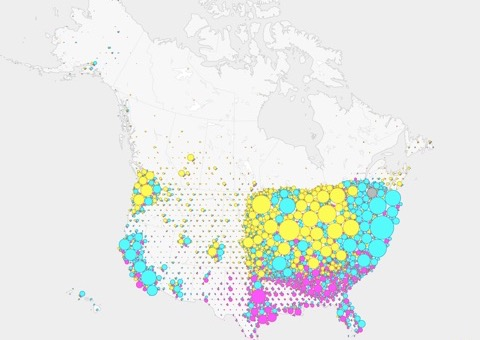
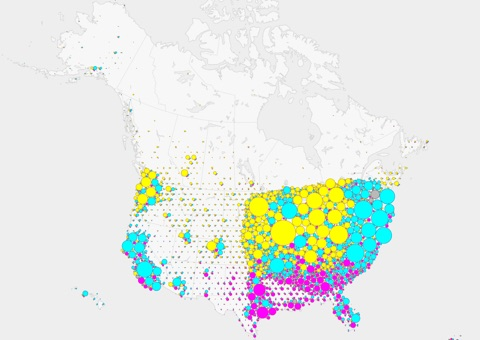
Pure colors for donuts and bubbles; isogloss lakes masked properly
The donuts, bubbles, hex bubbles and hover box dots use the pure colors
of the main map's mix (#ffff00, #00ffff, #ff00ff, and gray for other)
instead of the paler isogloss 90% zone colors (common.js: TERM_FILL).

The isogloss bands are now masked to land minus lakes. The old even-odd
clip filled the other country's half of the Great Lakes when only one
country was shown, since its land stops mid-lake.

Claude-Session: https://claude.ai/code/session_01JpWq1jKXNV9syim92nfxii

diff --git a/experiments/common.js b/experiments/common.js
@@ -32,10 +32,11 @@ window.PVS = (function () {
 	// marks stay visible on white. "Other" is a deliberately neutral gray,
 	// matching the main map, where "other" darkens a county towards black.
 	const COLOR = { pop: "#c49a00", soda: "#0a8fbf", coke: "#d13a8a", other: "#555555" };
-	// Fills for the four answers: the 90% zones on the isogloss map (its CMY
-	// fills after three stacked 30% bands over the land, and a gray for
-	// "other"). Shapes filled with these are outlined in COLOR.
-	const ZONE_FILL = { pop: "#fbfb54", soda: "#54fbfb", coke: "#fb54fb", other: "#b9b9b9" };
+	// Fills for the four answers on the donuts and bubbles: the pure colors of
+	// the main map's mix (what the choropleth and Voronoi show where everyone
+	// gave one answer), and a gray for "other". Shapes filled with these are
+	// outlined in COLOR.
+	const TERM_FILL = { pop: "#ffff00", soda: "#00ffff", coke: "#ff00ff", other: "#b9b9b9" };
 
 	const STATE_ABBR = {
 		"01": "AL", "02": "AK", "04": "AZ", "05": "AR", "06": "CA", "08": "CO", "09": "CT",
@@ -138,7 +139,7 @@ window.PVS = (function () {
 	function breakdownHTML(title, counts, total, highlight) {
 		const rows = TERMS.map((t) =>
 			`<tr${t === highlight ? ' class="hl"' : ""}>` +
-			`<td><span class="dot" style="background:${ZONE_FILL[t]};box-shadow:inset 0 0 0 1px ${COLOR[t]}"></span>${LABEL[t]}</td>` +
+			`<td><span class="dot" style="background:${TERM_FILL[t]};box-shadow:inset 0 0 0 1px ${COLOR[t]}"></span>${LABEL[t]}</td>` +
 			`<td class="num">${fmt(counts[t])}</td>` +
 			`<td class="num">${total ? pct(counts[t] / total) : "–"}</td></tr>`
 		).join("");
@@ -600,13 +601,13 @@ window.PVS = (function () {
 	// Color key: one swatch + name per term.
 	function colorKeyHTML(shape) {
 		return TERMS.map((t) =>
-			`<span class="key-item"><span class="${shape}" style="background:${ZONE_FILL[t]};` +
+			`<span class="key-item"><span class="${shape}" style="background:${TERM_FILL[t]};` +
 			`box-shadow:inset 0 0 0 1px ${COLOR[t]}"></span>${LABEL[t]}</span>`
 		).join("");
 	}
 
 	return {
-		TERMS, LABEL, COLOR, ZONE_FILL, STATE_ABBR, BASEMAP, drawBasemap, fmt, pct, loadData, countyRecords, breakdownHTML, makeTooltip, colorKeyHTML,
+		TERMS, LABEL, COLOR, TERM_FILL, STATE_ABBR, BASEMAP, drawBasemap, fmt, pct, loadData, countyRecords, breakdownHTML, makeTooltip, colorKeyHTML,
 		northAmericaProjection, FRAME, usProjection, canadaProjection, regionProjection, regionZones, pageRegion, reloadWithSettings, mix, mixCounts, mixKeyHTML, showMixKey, swellingOutlines, separateStates,
 	};
 })();

diff --git a/experiments/isoglosses.js b/experiments/isoglosses.js
@@ -232,10 +232,13 @@
 
 		// --- static layers ---------------------------------------------------
 		const defs = svg.append("defs");
-		defs.append("clipPath").attr("id", "land-clip")
-			.append("path")
-			.attr("clip-rule", "evenodd") // land minus lakes
-			.attr("d", path(land) + path(lakes));
+		// Bands, dots and lines show only on the land shown, minus lakes. A mask
+		// rather than an even-odd clip: with one country shown its land stops
+		// mid-lake, and an even-odd clip would fill the other country's half.
+		const landMask = defs.append("mask").attr("id", "land-mask")
+			.attr("maskUnits", "userSpaceOnUse").attr("x", 0).attr("y", 0).attr("width", WIDTH).attr("height", HEIGHT);
+		landMask.append("path").attr("fill", "#fff").attr("d", path(land));
+		landMask.append("path").attr("fill", "#000").attr("d", path(lakes));
 
 		// Sub-grid spacing is DOT_GAP * sqrt(3), in horizontal rows; the three
 		// sub-grids are shifted 0, 1 and 2 * DOT_GAP straight down.
@@ -268,9 +271,9 @@
 		defs.append("clipPath").attr("id", "shown-land").append("path").attr("d", path(land));
 		base.append("path").attr("class", "lakes").attr("clip-path", "url(#shown-land)").attr("d", path(lakes));
 
-		const bands = svg.append("g").attr("clip-path", "url(#land-clip)");
-		const dots = svg.append("g").attr("clip-path", "url(#land-clip)");
-		const lines = svg.append("g").attr("clip-path", "url(#land-clip)");
+		const bands = svg.append("g").attr("mask", "url(#land-mask)");
+		const dots = svg.append("g").attr("mask", "url(#land-mask)");
+		const lines = svg.append("g").attr("mask", "url(#land-mask)");
 		// State / province lines again on top, faintly, so they read through the bands.
 		svg.append("path").attr("class", "admin-over").attr("d", path(admin1));
 

diff --git a/experiments/choropleth.html b/experiments/choropleth.html
@@ -4,8 +4,8 @@
 	<meta charset="utf-8">
 	<meta name="viewport" content="width=device-width, initial-scale=1">
 	<title>Pop vs Soda Choropleth</title>
-	<link href="../css/style.css?v=2026-11-23p" rel="stylesheet">
-	<link href="experiments.css?v=2026-11-23p" rel="stylesheet">
+	<link href="../css/style.css?v=2026-11-23v" rel="stylesheet">
+	<link href="experiments.css?v=2026-11-23v" rel="stylesheet">
 	<style>
 		.na-units path { stroke: #fff; stroke-width: 0.15px; }
 		.na-lines path { fill: none; pointer-events: none; }
@@ -16,8 +16,8 @@
 	</style>
 	<script src="../vendor/d3.v7.9.0.min.js" defer></script>
 	<script src="../vendor/topojson-client.v3.1.0.min.js" defer></script>
-	<script src="common.js?v=2026-11-23p" defer></script>
-	<script src="choropleth.js?v=2026-11-23p" defer></script>
+	<script src="common.js?v=2026-11-23v" defer></script>
+	<script src="choropleth.js?v=2026-11-23v" defer></script>
 </head>
 <body>
 	<nav class="nav">

diff --git a/experiments/isoglosses.html b/experiments/isoglosses.html
@@ -4,8 +4,8 @@
 	<meta charset="utf-8">
 	<meta name="viewport" content="width=device-width, initial-scale=1">
 	<title>Pop vs Soda Isoglosses</title>
-	<link href="../css/style.css?v=2026-11-23p" rel="stylesheet">
-	<link href="experiments.css?v=2026-11-23p" rel="stylesheet">
+	<link href="../css/style.css?v=2026-11-23v" rel="stylesheet">
+	<link href="experiments.css?v=2026-11-23v" rel="stylesheet">
 	<style>
 		.iso-band { mix-blend-mode: multiply; }
 		.iso-line { fill: none; stroke-linejoin: round; }
@@ -16,8 +16,8 @@
 	</style>
 	<script src="../vendor/d3.v7.9.0.min.js" defer></script>
 	<script src="../vendor/topojson-client.v3.1.0.min.js" defer></script>
-	<script src="common.js?v=2026-11-23p" defer></script>
-	<script src="isoglosses.js?v=2026-11-23q" defer></script>
+	<script src="common.js?v=2026-11-23v" defer></script>
+	<script src="isoglosses.js?v=2026-11-23w" defer></script>
 </head>
 <body>
 	<nav class="nav">

diff --git a/experiments/donuts.js b/experiments/donuts.js
@@ -7,7 +7,7 @@
 (function () {
 	"use strict";
 
-	const { TERMS, COLOR, ZONE_FILL, STATE_ABBR, fmt, breakdownHTML, makeTooltip, colorKeyHTML, regionProjection } = PVS;
+	const { TERMS, COLOR, TERM_FILL, STATE_ABBR, fmt, breakdownHTML, makeTooltip, colorKeyHTML, regionProjection } = PVS;
 	const { width: WIDTH, height: HEIGHT } = PVS.FRAME;
 	const MAX_RADIUS = 52;      // radius of the place with the most responses
 	const HOLE = 0.5;           // inner radius as a fraction of outer radius
@@ -145,8 +145,8 @@
 					})))
 				.join("path")
 				.attr("d", arc)
-				// The isogloss map's 90% zone colors, outlined like its lines.
-				.attr("fill", (p) => ZONE_FILL[p.data.term])
+				// Pure colors like the main map's, outlined in the darker line colors.
+				.attr("fill", (p) => TERM_FILL[p.data.term])
 				.attr("stroke", (p) => COLOR[p.data.term])
 				.attr("stroke-width", 0.75);
 

diff --git a/experiments/hex-bubbles.html b/experiments/hex-bubbles.html
@@ -4,12 +4,12 @@
 	<meta charset="utf-8">
 	<meta name="viewport" content="width=device-width, initial-scale=1">
 	<title>Pop vs Soda Hex Bubbles</title>
-	<link href="../css/style.css?v=2026-11-23p" rel="stylesheet">
-	<link href="experiments.css?v=2026-11-23p" rel="stylesheet">
+	<link href="../css/style.css?v=2026-11-23v" rel="stylesheet">
+	<link href="experiments.css?v=2026-11-23v" rel="stylesheet">
 	<script src="../vendor/d3.v7.9.0.min.js" defer></script>
 	<script src="../vendor/topojson-client.v3.1.0.min.js" defer></script>
-	<script src="common.js?v=2026-11-23p" defer></script>
-	<script src="hex-bubbles.js?v=2026-11-23p" defer></script>
+	<script src="common.js?v=2026-11-23v" defer></script>
+	<script src="hex-bubbles.js?v=2026-11-23v" defer></script>
 </head>
 <body>
 	<nav class="nav">

diff --git a/experiments/zip-circles.html b/experiments/zip-circles.html
@@ -4,12 +4,12 @@
 	<meta charset="utf-8">
 	<meta name="viewport" content="width=device-width, initial-scale=1">
 	<title>Pop vs Soda ZIP Circles</title>
-	<link href="../css/style.css?v=2026-11-23p" rel="stylesheet">
-	<link href="experiments.css?v=2026-11-23p" rel="stylesheet">
+	<link href="../css/style.css?v=2026-11-23v" rel="stylesheet">
+	<link href="experiments.css?v=2026-11-23v" rel="stylesheet">
 	<script src="../vendor/d3.v7.9.0.min.js" defer></script>
 	<script src="../vendor/topojson-client.v3.1.0.min.js" defer></script>
-	<script src="common.js?v=2026-11-23p" defer></script>
-	<script src="zip-circles.js?v=2026-11-23p" defer></script>
+	<script src="common.js?v=2026-11-23v" defer></script>
+	<script src="zip-circles.js?v=2026-11-23v" defer></script>
 </head>
 <body>
 	<nav class="nav">

diff --git a/experiments/bubbles.html b/experiments/bubbles.html
@@ -4,12 +4,12 @@
 	<meta charset="utf-8">
 	<meta name="viewport" content="width=device-width, initial-scale=1">
 	<title>Pop vs Soda Bubbles</title>
-	<link href="../css/style.css?v=2026-11-23p" rel="stylesheet">
-	<link href="experiments.css?v=2026-11-23p" rel="stylesheet">
+	<link href="../css/style.css?v=2026-11-23v" rel="stylesheet">
+	<link href="experiments.css?v=2026-11-23v" rel="stylesheet">
 	<script src="../vendor/d3.v7.9.0.min.js" defer></script>
 	<script src="../vendor/topojson-client.v3.1.0.min.js" defer></script>
-	<script src="common.js?v=2026-11-23p" defer></script>
-	<script src="bubbles.js?v=2026-11-23p" defer></script>
+	<script src="common.js?v=2026-11-23v" defer></script>
+	<script src="bubbles.js?v=2026-11-23v" defer></script>
 </head>
 <body>
 	<nav class="nav">

diff --git a/experiments/voronoi.html b/experiments/voronoi.html
@@ -4,12 +4,12 @@
 	<meta charset="utf-8">
 	<meta name="viewport" content="width=device-width, initial-scale=1">
 	<title>Pop vs Soda Voronoi</title>
-	<link href="../css/style.css?v=2026-11-23p" rel="stylesheet">
-	<link href="experiments.css?v=2026-11-23p" rel="stylesheet">
+	<link href="../css/style.css?v=2026-11-23v" rel="stylesheet">
+	<link href="experiments.css?v=2026-11-23v" rel="stylesheet">
 	<script src="../vendor/d3.v7.9.0.min.js" defer></script>
 	<script src="../vendor/topojson-client.v3.1.0.min.js" defer></script>
-	<script src="common.js?v=2026-11-23p" defer></script>
-	<script src="voronoi.js?v=2026-11-23p" defer></script>
+	<script src="common.js?v=2026-11-23v" defer></script>
+	<script src="voronoi.js?v=2026-11-23v" defer></script>
 </head>
 <body>
 	<nav class="nav">

diff --git a/experiments/donuts.html b/experiments/donuts.html
@@ -4,12 +4,12 @@
 	<meta charset="utf-8">
 	<meta name="viewport" content="width=device-width, initial-scale=1">
 	<title>Pop vs Soda Donuts</title>
-	<link href="../css/style.css?v=2026-11-23p" rel="stylesheet">
-	<link href="experiments.css?v=2026-11-23p" rel="stylesheet">
+	<link href="../css/style.css?v=2026-11-23v" rel="stylesheet">
+	<link href="experiments.css?v=2026-11-23v" rel="stylesheet">
 	<script src="../vendor/d3.v7.9.0.min.js" defer></script>
 	<script src="../vendor/topojson-client.v3.1.0.min.js" defer></script>
-	<script src="common.js?v=2026-11-23p" defer></script>
-	<script src="donuts.js?v=2026-11-23q" defer></script>
+	<script src="common.js?v=2026-11-23v" defer></script>
+	<script src="donuts.js?v=2026-11-23v" defer></script>
 </head>
 <body>
 	<nav class="nav">

diff --git a/experiments/bubbles.js b/experiments/bubbles.js
@@ -12,8 +12,8 @@
 	"use strict";
 
 	const { TERMS, LABEL, COLOR, fmt, loadData, breakdownHTML, makeTooltip, mixCounts, swellingOutlines, separateStates, drawBasemap } = PVS;
-	// The 90% zones' colors from the isogloss map, outlined in the line colors.
-	const FILL = PVS.ZONE_FILL;
+	// Pure colors like the main map's, outlined in the darker line colors.
+	const FILL = PVS.TERM_FILL;
 	const OUTLINE = COLOR;
 	const { width: WIDTH, height: HEIGHT } = PVS.FRAME;
 	const PADDING = 0.4; // px between touching circles

diff --git a/experiments/index.html b/experiments/index.html
@@ -4,8 +4,8 @@
 	<meta charset="utf-8">
 	<meta name="viewport" content="width=device-width, initial-scale=1">
 	<title>Pop vs Soda Experiments</title>
-	<link href="../css/style.css?v=2026-11-23p" rel="stylesheet">
-	<link href="experiments.css?v=2026-11-23p" rel="stylesheet">
+	<link href="../css/style.css?v=2026-11-23v" rel="stylesheet">
+	<link href="experiments.css?v=2026-11-23v" rel="stylesheet">
 	<style>
 		.experiments { list-style: none; padding: 0; margin-top: 12px; }
 		.experiments li {
